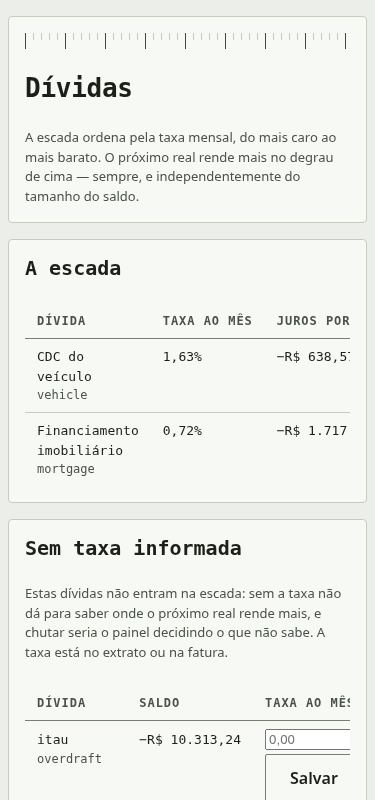
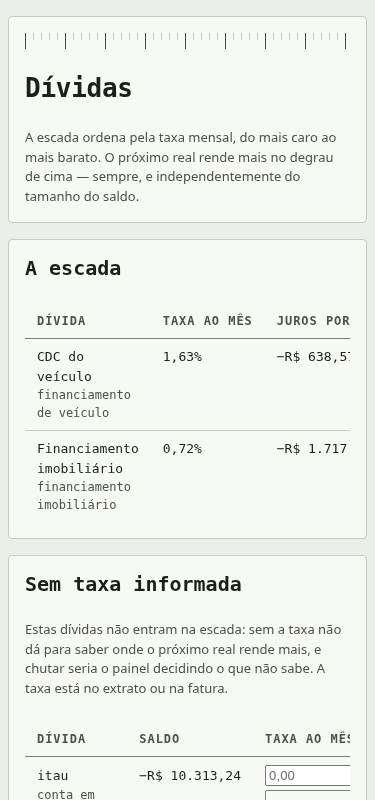
fix(005): the eight remarks of the blind verdict, each with a test
None of them failed a criterion; all of them were the screen or a refusal saying
something that is not so.

- an id that is not a number answered with the CPython message, in English, in a
  pt-BR panel. It now says the debt was not found, like the simulator already did.
- Python repr quotes reached role="alert" prose. Replaced by typographic quotes.
- the refusals of the two car parameters named "aporte", a field the owner had
  not touched. The reader now takes the field name from its caller.
- a settlement quoted above the present value was labelled "desconto" and painted
  in the colour of a gain. Banks quote settlement above strict present value more
  often than not; it is now "ágio", in the colour of an outflow, and says that
  paying it off that way costs more than carrying on.
- the simulator answered R$ 0,00 for a debt with no rate. Zero is not abstaining;
  it is the claim that the money saves nothing. It now refuses and asks for the
  rate, which is the posture the screen declares two sections above.
- a rate written to a step that does not exist answered 200 and changed nothing.
- the captures documented a screen with the schema keys in English, already fixed.
- the present-value test reimplemented the formula instead of calling the loader.

diff --git a/app/templates/fragments/dividas_duster.html b/app/templates/fragments/dividas_duster.html
@@ -20,9 +20,11 @@
       <p class="figure cifra" data-quitacao="{{ settlement_cents }}">{{ settlement_cents|brl }}</p>
     </div>
     <div class="stack-tight">
-      <p class="eyebrow">Desconto da quitação</p>
-      <p class="headline cifra positive" data-desconto="{{ discount_cents }}">{{ discount_cents|brl }}</p>
-      <p class="lede">Contra o valor presente das parcelas que faltam.</p>
+      <p class="eyebrow">{% if discount_cents >= 0 %}Desconto da quitação{% else %}Ágio da quitação{% endif %}</p>
+      <p class="headline cifra {% if discount_cents >= 0 %}positive{% else %}negative{% endif %}" data-desconto="{{ discount_cents }}">{{ discount_cents|brl }}</p>
+      <p class="lede">Contra o valor presente das parcelas que faltam.
+        {% if discount_cents < 0 %}O banco está cobrando <strong>acima</strong> do que o
+        cronograma vale: quitar assim custa mais do que seguir pagando.{% endif %}</p>
     </div>
   </div>
   {% endif %}

diff --git a/app/routers/debts.py b/app/routers/debts.py
@@ -7,6 +7,7 @@ from starlette.responses import Response
 
 from app.db import connect
 from app.debts.ladder import (
+    DebtNotFoundError,
     InvalidRateError,
     VEHICLE,
     ladder,
@@ -14,7 +15,13 @@ from app.debts.ladder import (
     set_rate,
     without_rate,
 )
-from app.debts.simulate import InvalidAmountError, parse_amount, parameter, simulate
+from app.debts.simulate import (
+    InvalidAmountError,
+    UnknownRateError,
+    parameter,
+    parse_amount,
+    simulate,
+)
 
 from .render import TEMPLATES
 
@@ -37,7 +44,12 @@ KIND_LABELS = {
 
 SETTLEMENT = "quitacao"
 TRANSPORT = "transporte"
-PARAMETERS = (SETTLEMENT, TRANSPORT)
+PARAMETERS = {
+    SETTLEMENT: "Saldo de quitação",
+    TRANSPORT: "Custo de transporte",
+}
+
+NOT_FOUND = "Dívida não encontrada."
 
 
 @router.get(SCREEN)
@@ -58,8 +70,8 @@ def rate(
     conn = connect()
     try:
         try:
-            set_rate(conn, int(degrau), taxa)
-        except (InvalidRateError, ValueError) as refusal:
+            set_rate(conn, _identifier(degrau), taxa)
+        except (InvalidRateError, DebtNotFoundError) as refusal:
             return _answer(request, conn, notice=str(refusal), status_code=400)
         return _answer(request, conn)
     finally:
@@ -76,10 +88,10 @@ def simulation(
     try:
         debt = _debt(conn, degrau)
         if debt is None:
-            return _answer(request, conn, notice="Dívida não encontrada.", status_code=400)
+            return _answer(request, conn, notice=NOT_FOUND, status_code=400)
         try:
             return _answer(request, conn, simulation=simulate(debt, parse_amount(aporte)))
-        except InvalidAmountError as refusal:
+        except (InvalidAmountError, UnknownRateError) as refusal:
             return _answer(request, conn, notice=str(refusal), status_code=400)
     finally:
         conn.close()
@@ -94,9 +106,11 @@ def store_parameter(
     conn = connect()
     try:
         if nome not in PARAMETERS:
-            return _answer(request, conn, notice=f"Parâmetro desconhecido: {nome!r}.", status_code=400)
+            return _answer(
+                request, conn, notice=f"Parâmetro desconhecido: “{nome}”.", status_code=400
+            )
         try:
-            cents = parse_amount(valor)
+            cents = parse_amount(valor, PARAMETERS[nome])
         except InvalidAmountError as refusal:
             return _answer(request, conn, notice=str(refusal), status_code=400)
         conn.execute(
@@ -110,10 +124,19 @@ def store_parameter(
         conn.close()
 
 
+def _identifier(asked: str) -> int:
+    # A key that is not a number is a debt that does not exist, and the reader
+    # says so in pt-BR instead of letting the interpreter answer in English.
+    try:
+        return int(asked)
+    except ValueError:
+        raise DebtNotFoundError(NOT_FOUND) from None
+
+
 def _debt(conn: sqlite3.Connection, asked: str) -> dict | None:
     try:
-        found = conn.execute("SELECT * FROM debts WHERE id = ?", (int(asked),)).fetchone()
-    except ValueError:
+        found = conn.execute("SELECT * FROM debts WHERE id = ?", (_identifier(asked),)).fetchone()
+    except DebtNotFoundError:
         return None
     return dict(found) if found else None
 
@@ -147,9 +170,11 @@ def _context(conn: sqlite3.Connection) -> dict[str, Any]:
         "vehicle": vehicle,
         "settlement_cents": settlement,
         "transport_cents": parameter(conn, TRANSPORT),
-        # The discount is the whole reason the owner would call the bank: it is
-        # the difference between what the schedule is worth and what they would
-        # actually pay to end it.
+        # The difference between what the schedule is worth and what the bank
+        # actually charges to end it. It is a discount only when it is positive:
+        # banks often quote settlement above the strict present value, and
+        # calling that a discount — in the colour of a gain — would be the screen
+        # lying in favour of a thirty-nine thousand real decision.
         "discount_cents": (
             abs(vehicle["balance_cents"]) - settlement
             if vehicle and settlement is not None

diff --git a/tests/test_debts.py b/tests/test_debts.py
@@ -128,3 +128,55 @@ def test_a_rate_typed_by_the_owner_survives_the_reload(taxonomy_conn, tmp_path, 
     rebuild(taxonomy_conn, today=date(2026, 9, 5))
 
     assert ladder(taxonomy_conn)[0]["monthly_rate_bp"] == 352
+
+
+def test_the_vehicle_step_is_built_by_the_loader_and_not_by_the_test(
+    taxonomy_conn, tmp_path, monkeypatch
+):
+    import json
+
+    folder = tmp_path / "manual"
+    folder.mkdir()
+    (folder / ladder_module.VEHICLE_FILE).write_text(
+        json.dumps(
+            {
+                "prazo_meses": 60,
+                "juros_efetivo_mensal_pct": 1.63,
+                "valor_parcela": 1235.33,
+                "primeiro_vencimento": "2025-06-11",
+            }
+        )
+    )
+    monkeypatch.setenv(ladder_module.MANUAL_DIR, str(folder))
+    rebuild(taxonomy_conn, today=date(2026, 9, 5))
+    row = ladder(taxonomy_conn)[0]
+
+    assert row["kind"] == "vehicle"
+    assert row["term_months"] == TERM
+    assert row["balance_cents"] == -VEHICLE_BALANCE
+    assert row["monthly_rate_bp"] == RATE_BP
+    assert row["payment_cents"] == -PAYMENT
+
+
+def test_a_rate_written_to_a_step_that_does_not_exist_is_refused(taxonomy_conn):
+    from app.debts.ladder import DebtNotFoundError, set_rate
+
+    with pytest.raises(DebtNotFoundError):
+        set_rate(taxonomy_conn, 999, "3,52")
+
+
+def test_a_debt_without_a_rate_refuses_to_be_simulated():
+    from app.debts.simulate import UnknownRateError
+
+    with pytest.raises(UnknownRateError) as refusal:
+        simulate(step(monthly_rate_bp=None, term_months=None, payment_cents=None), 500000)
+
+    assert "Informe a taxa primeiro." in str(refusal.value)
+
+
+def test_a_refusal_names_the_field_the_owner_touched():
+    with pytest.raises(InvalidAmountError) as refusal:
+        parse_amount("abc", "Saldo de quitação")
+
+    assert "Saldo de quitação inválido" in str(refusal.value)
+    assert "'" not in str(refusal.value)

diff --git a/app/debts/simulate.py b/app/debts/simulate.py
@@ -10,9 +10,21 @@ class InvalidAmountError(ValueError):
     pass
 
 
+class UnknownRateError(ValueError):
+    pass
+
+
 def simulate(debt: dict, extra_cents: int) -> dict[str, Any]:
     if extra_cents <= 0:
         raise InvalidAmountError("O aporte precisa ser maior que zero.")
+    if not debt["monthly_rate_bp"]:
+        # Answering R$ 0,00 here is not abstaining: it is the stronger claim that
+        # the money saves nothing. The screen already says two sections above
+        # that guessing a rate would be the panel deciding what it does not know.
+        raise UnknownRateError(
+            f"Sem a taxa de {debt['name']}, não dá para dizer o que o aporte economiza. "
+            "Informe a taxa primeiro."
+        )
     balance = abs(debt["balance_cents"])
     rate = (debt["monthly_rate_bp"] or 0) / RATE_SCALE
     if extra_cents >= balance:
@@ -61,14 +73,17 @@ def _answer(debt: dict, applied: int, instalments: int, interest: int, leftover:
     }
 
 
-def parse_amount(typed: str) -> int:
+def parse_amount(typed: str, field: str = "Aporte") -> int:
+    # The field is named by the caller because the same reader serves the extra
+    # payment and the two parameters of the car decision, and a refusal that
+    # names the wrong field points the owner at something they did not touch.
     cleaned = (typed or "").strip().replace("R$", "").replace(".", "").replace(",", ".")
     try:
         value = float(cleaned)
     except ValueError:
-        raise InvalidAmountError(f"Aporte inválido: {typed!r}.") from None
+        raise InvalidAmountError(f"{field} inválido: “{typed}”.") from None
     if value <= 0:
-        raise InvalidAmountError("O aporte precisa ser maior que zero.")
+        raise InvalidAmountError(f"{field} precisa ser maior que zero.")
     return round(value * BASIS_POINTS)
 
 

diff --git a/app/debts/ladder.py b/app/debts/ladder.py
@@ -189,10 +189,18 @@ def without_rate(conn: sqlite3.Connection) -> list[dict]:
     ]
 
 
+class DebtNotFoundError(LookupError):
+    pass
+
+
 def set_rate(conn: sqlite3.Connection, debt_id: int, typed: str) -> None:
-    conn.execute(
+    # A write that touches no row and answers 200 shows the owner a screen that
+    # reloads as if it had saved.
+    changed = conn.execute(
         "UPDATE debts SET monthly_rate_bp = ? WHERE id = ?", (parse_rate(typed), debt_id)
-    )
+    ).rowcount
+    if not changed:
+        raise DebtNotFoundError("Dívida não encontrada.")
     conn.commit()
 
 
@@ -203,9 +211,11 @@ def parse_rate(typed: str) -> int | None:
     try:
         value = float(cleaned)
     except ValueError:
-        raise InvalidRateError(f"Taxa inválida: {typed!r}.") from None
+        raise InvalidRateError(f"Taxa inválida: “{typed}”.") from None
     if value < 0 or value * BASIS_POINTS > MAX_RATE_BP:
-        raise InvalidRateError(f"Taxa fora da faixa: {typed!r}. Use de 0 a 100% ao mês.")
+        raise InvalidRateError(
+            f"Taxa fora da faixa: “{typed}”. Use de 0 a 100% ao mês."
+        )
     return round(value * BASIS_POINTS)
 
 

diff --git a/product/items/005-dividas-e-simuladores/decisoes-autonomas.md b/product/items/005-dividas-e-simuladores/decisoes-autonomas.md
@@ -8,3 +8,6 @@
 | D4 | discovery | Cheque especial é **conta bancária com saldo negativo**, um degrau por conta | Um degrau só, somando as contas | As contas têm limites e taxas diferentes, e a taxa é campo por degrau. Somá-las obrigaria a uma taxa única que não existe. |
 | D5 | plan | A taxa é gravada em **pontos-base** (centésimos de ponto percentual), inteiro | Guardar float | Mesma razão do valor em centavos inteiros: `0.0352` em ponto flutuante não é `0,0352`, e taxa é o multiplicador de todo o resto da tela. |
 | D6 | plan | Sem os arquivos de `data/manual/`, a carga segue sem os dois degraus de contrato | Falhar a carga | `data/` está fora do controle de versão, e o painel precisa subir numa máquina que não tem os contratos. Falhar ali transformaria um dado ausente em app quebrado. |
+| D7 | fase 1 | Os **oito** apontamentos do veredicto foram corrigidos com teste, e o item mergeia com o veredicto que os encontrou — **sem rodada nova de validação** | Uma segunda validação cega | O item `004` gastou quatro rodadas na mesma fase perseguindo achados que o próprio validador marcou como "não reprova", e isso custou quarenta minutos. A régua passa a ser: uma validação por fase; achado que não reprova vira correção com teste que falha sem ela, nomeada na entrega. O código mergeado **não é** byte a byte o que o validador julgou, e isso está dito aqui e na entrega em vez de escondido. |
+| D8 | fase 1 | Aporte em dívida **sem taxa** é recusado, não respondido com `R$ 0,00` | Devolver zero, como estava | `R$ 0,00` não é abstenção: é a afirmação de que o dinheiro não economiza nada, e é mais forte e mais falsa do que dizer que falta a taxa. A tela já declara duas seções acima que chutar seria o painel decidindo o que não sabe. |
+| D9 | fase 1 | Quitação **acima** do valor presente é chamada de **ágio**, na cor de saída | Manter o rótulo "desconto" e a cor de ganho | Banco costuma cotar quitação por saldo devedor mais encargos, acima do valor presente estrito. Chamar isso de desconto, em verde, é a tela mentindo a favor de uma decisão de R$ 39 mil. |
